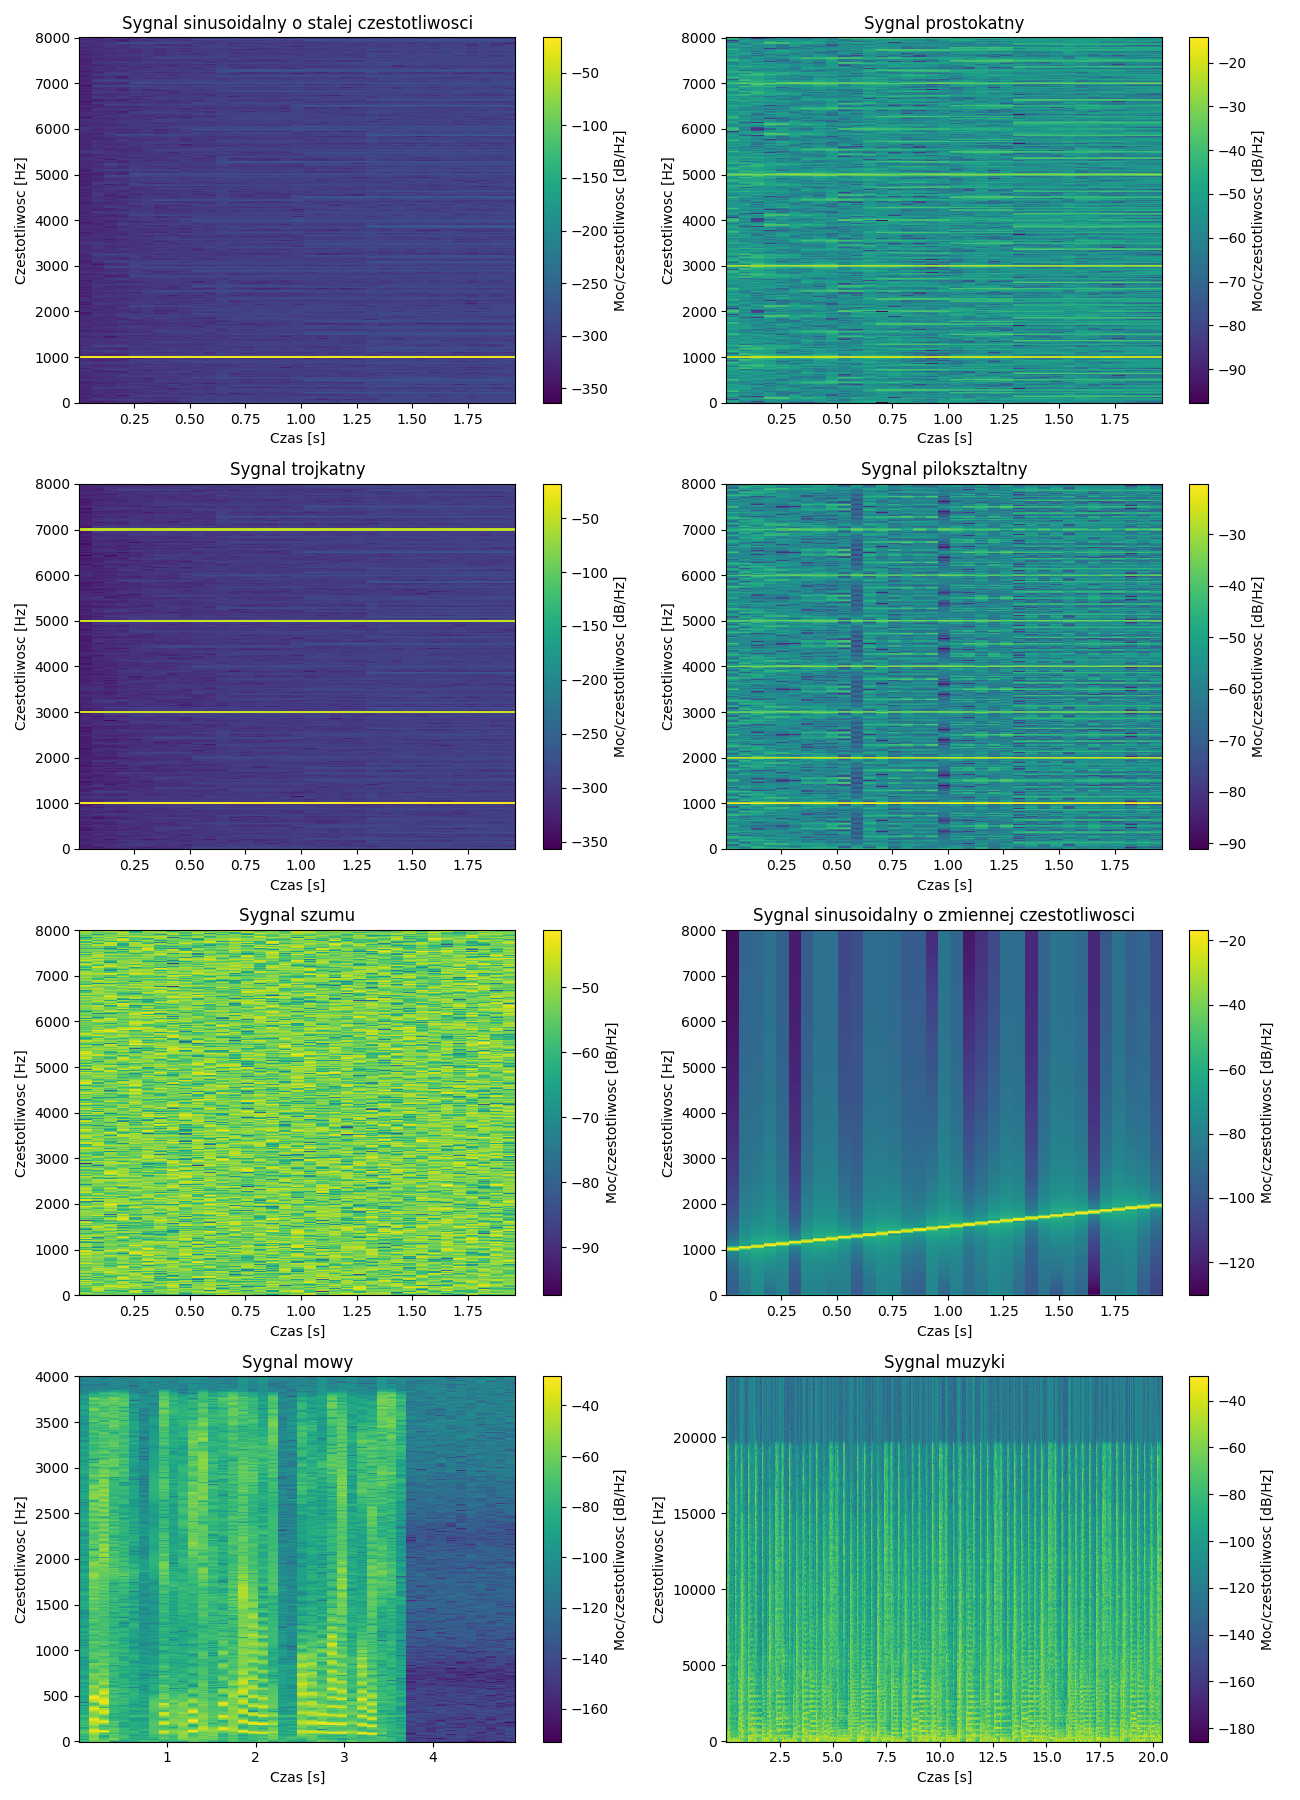
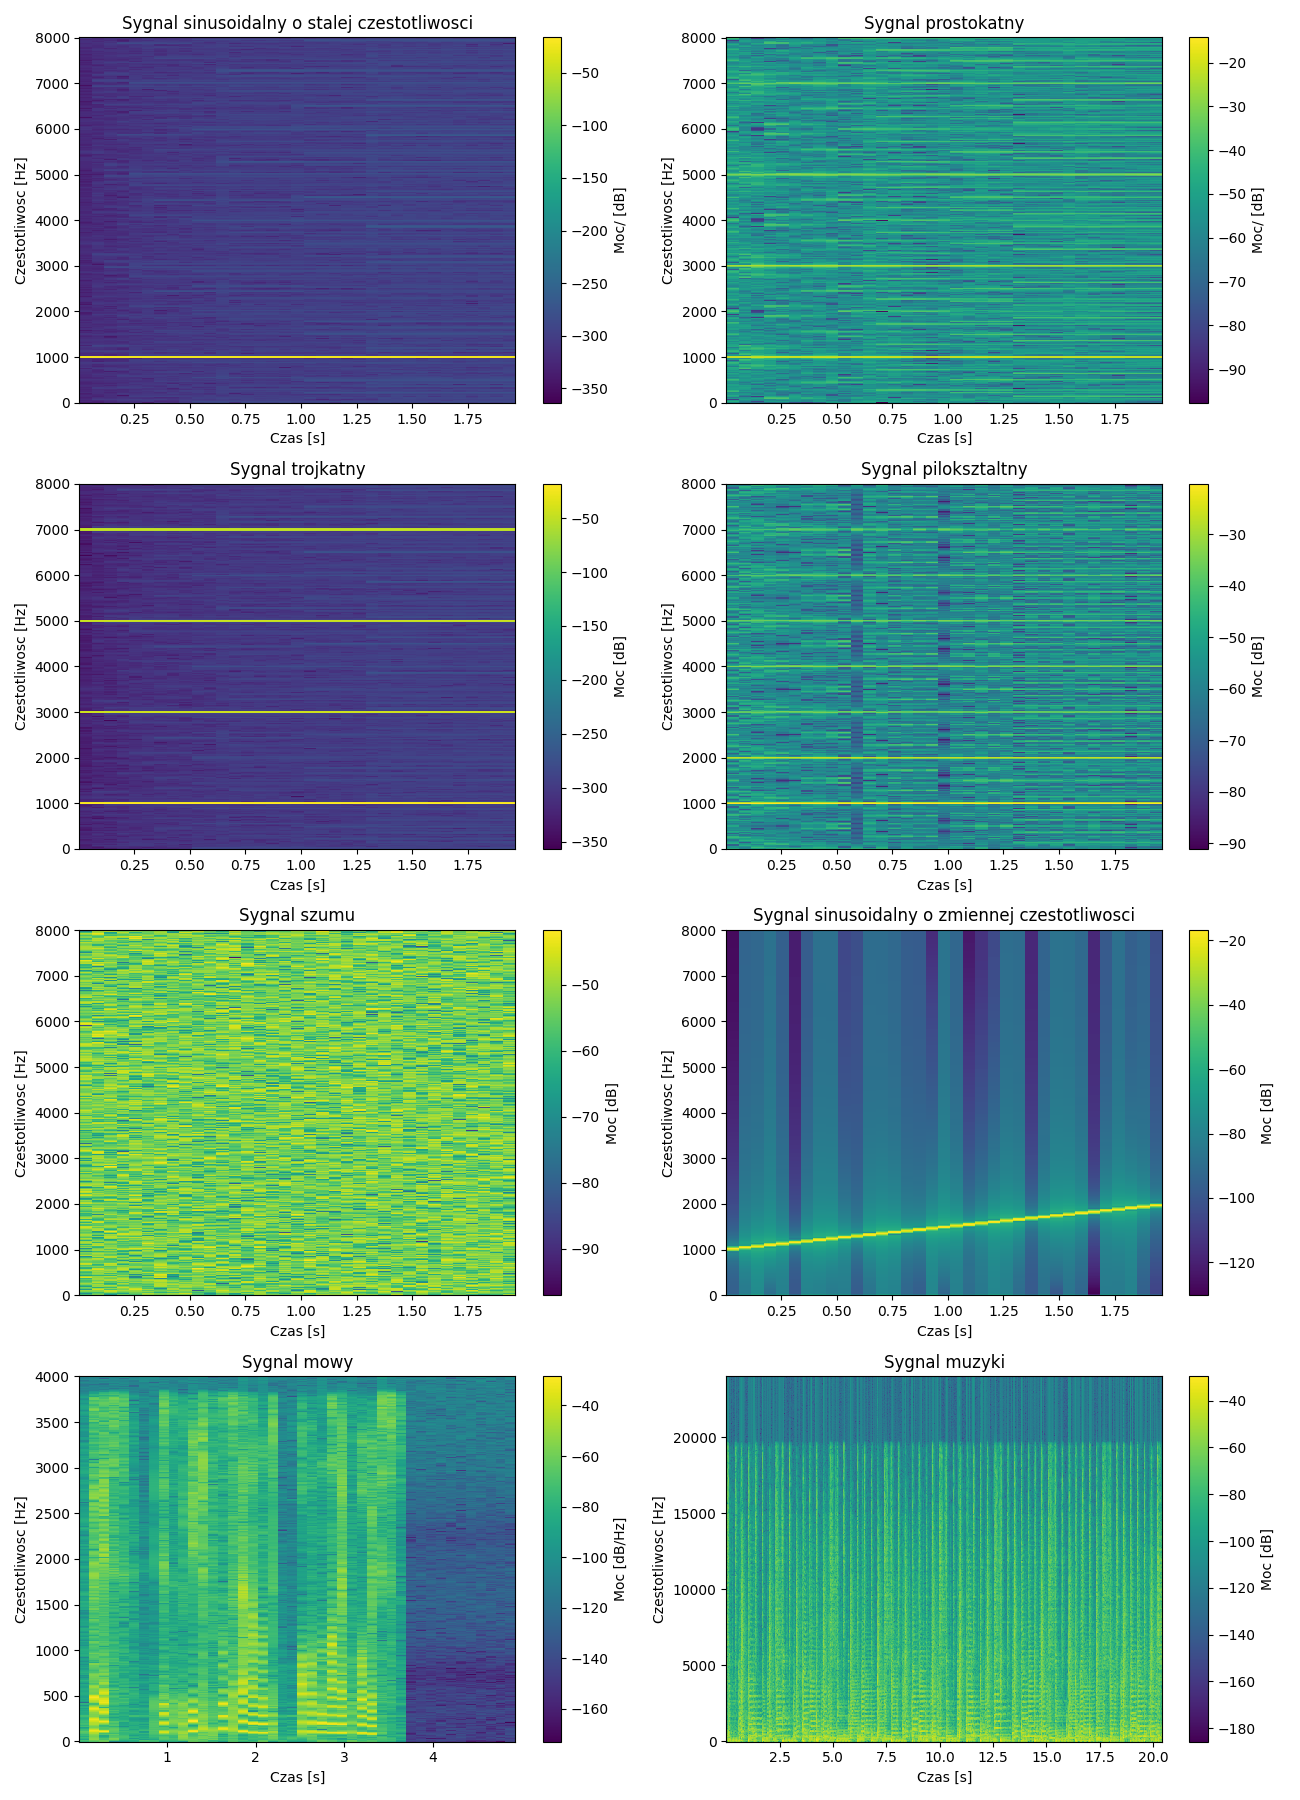
asd

diff --git a/psio/zajecia4/main.py b/psio/zajecia4/main.py
@@ -45,13 +45,13 @@ samples_power = moc_sygnalu(0.999, samples)
 fig, axs = plt.subplots(4, 2)
 fig.set_size_inches(18, 16)
 ax = axs[0,0]; ax.plot(n, noise); ax.set_title("Szum gaussowski"); ax.set_xlabel("Czas [s]"); ax.set_ylabel("Amplituda")
-ax = axs[0,1]; ax.plot(n, noise_power); ax.set_title("Szum gaussowski - Obwiednia mocy, alpha=0.999"); ax.set_xlabel("Czas [s]"); ax.set_ylabel("Moc")
+ax = axs[0,1]; ax.plot(n, noise_power); ax.set_title("Szum gaussowski - Obwiednia mocy, alpha=0.999"); ax.set_xlabel("Czas [s]"); ax.set_ylabel("Moc"); ax.set_ylim(0, 2)
 ax = axs[1,0]; ax.plot(n, sin); ax.set_title("Sygnal sinusoidalny o stalej czestotliwosci"); ax.set_xlabel("Czas [s]"); ax.set_ylabel("Amplituda")
-ax = axs[1,1]; ax.plot(n, sin_power); ax.set_title("Sygnal sinusoidalny o stalej czestotliwosci - Obwiednia mocy, alpha=0.999"); ax.set_xlabel("Czas [s]"); ax.set_ylabel("Moc")
+ax = axs[1,1]; ax.plot(n, sin_power); ax.set_title("Sygnal sinusoidalny o stalej czestotliwosci - Obwiednia mocy, alpha=0.999"); ax.set_xlabel("Czas [s]"); ax.set_ylabel("Moc"); ax.set_ylim(0, 1)
 ax = axs[2,0]; ax.plot(n, sin_zmienny); ax.set_title("Sygnal o zmiennej czestotliwosci"); ax.set_xlabel("Czas [s]"); ax.set_ylabel("Amplituda")
-ax = axs[2,1]; ax.plot(n, sin_zmienny_power); ax.set_title("Sygnal o zmiennej czestotliwosci - Obwiednia mocy, alpha=0.999"); ax.set_xlabel("Czas [s]"); ax.set_ylabel("Moc")
+ax = axs[2,1]; ax.plot(n, sin_zmienny_power); ax.set_title("Sygnal o zmiennej czestotliwosci - Obwiednia mocy, alpha=0.999"); ax.set_xlabel("Czas [s]"); ax.set_ylabel("Moc"); ax.set_ylim(0, 1)
 ax = axs[3,0]; ax.plot(n, samples); ax.set_title("Sygnal mowy"); ax.set_xlabel("Czas [s]"); ax.set_ylabel("Amplituda")
-ax = axs[3,1]; ax.plot(n, samples_power); ax.set_title("Sygnal mowy - Obwiednia mocy, alpha=0.999"); ax.set_xlabel("Czas [s]"); ax.set_ylabel("Moc")
+ax = axs[3,1]; ax.plot(n, samples_power); ax.set_title("Sygnal mowy - Obwiednia mocy, alpha=0.999"); ax.set_xlabel("Czas [s]"); ax.set_ylabel("Moc"); ax.set_ylim(0, 0.1)
 fig.set_tight_layout(tight=True)
 plt.savefig("Zadanie1_1.png")
 
@@ -64,13 +64,13 @@ samples_power = moc_sygnalu(0.99, samples)
 fig, axs = plt.subplots(4, 2)
 fig.set_size_inches(18, 16)
 ax = axs[0,0]; ax.plot(n, noise); ax.set_title("Szum gaussowski"); ax.set_xlabel("Czas [s]"); ax.set_ylabel("Amplituda")
-ax = axs[0,1]; ax.plot(n, noise_power); ax.set_title("Szum gaussowski - Obwiednia mocy, alpha=0.99"); ax.set_xlabel("Czas [s]"); ax.set_ylabel("Moc")
+ax = axs[0,1]; ax.plot(n, noise_power); ax.set_title("Szum gaussowski - Obwiednia mocy, alpha=0.99"); ax.set_xlabel("Czas [s]"); ax.set_ylabel("Moc"); ax.set_ylim(0, 2)
 ax = axs[1,0]; ax.plot(n, sin); ax.set_title("Sygnal sinusoidalny o stalej czestotliwosci"); ax.set_xlabel("Czas [s]"); ax.set_ylabel("Amplituda")
-ax = axs[1,1]; ax.plot(n, sin_power); ax.set_title("Sygnal sinusoidalny o stalej czestotliwosci - Obwiednia mocy, alpha=0.99"); ax.set_xlabel("Czas [s]"); ax.set_ylabel("Moc")
+ax = axs[1,1]; ax.plot(n, sin_power); ax.set_title("Sygnal sinusoidalny o stalej czestotliwosci - Obwiednia mocy, alpha=0.99"); ax.set_xlabel("Czas [s]"); ax.set_ylabel("Moc"); ax.set_ylim(0, 1)
 ax = axs[2,0]; ax.plot(n, sin_zmienny); ax.set_title("Sygnal o zmiennej czestotliwosci"); ax.set_xlabel("Czas [s]"); ax.set_ylabel("Amplituda")
-ax = axs[2,1]; ax.plot(n, sin_zmienny_power); ax.set_title("Sygnal o zmiennej czestotliwosci - Obwiednia mocy, alpha=0.99"); ax.set_xlabel("Czas [s]"); ax.set_ylabel("Moc")
+ax = axs[2,1]; ax.plot(n, sin_zmienny_power); ax.set_title("Sygnal o zmiennej czestotliwosci - Obwiednia mocy, alpha=0.99"); ax.set_xlabel("Czas [s]"); ax.set_ylabel("Moc"); ax.set_ylim(0, 1)
 ax = axs[3,0]; ax.plot(n, samples); ax.set_title("Sygnal mowy"); ax.set_xlabel("Czas [s]"); ax.set_ylabel("Amplituda")
-ax = axs[3,1]; ax.plot(n, samples_power); ax.set_title("Sygnal mowy - Obwiednia mocy, alpha=0.99"); ax.set_xlabel("Czas [s]"); ax.set_ylabel("Moc")
+ax = axs[3,1]; ax.plot(n, samples_power); ax.set_title("Sygnal mowy - Obwiednia mocy, alpha=0.99"); ax.set_xlabel("Czas [s]"); ax.set_ylabel("Moc"); ax.set_ylim(0, 0.2)
 fig.set_tight_layout(tight=True)
 plt.savefig("Zadanie1_2.png")
 
@@ -83,13 +83,13 @@ samples_power = moc_sygnalu(0.001, samples)
 fig, axs = plt.subplots(4, 2)
 fig.set_size_inches(18, 16)
 ax = axs[0,0]; ax.plot(n, noise); ax.set_title("Szum gaussowski"); ax.set_xlabel("Czas [s]"); ax.set_ylabel("Amplituda")
-ax = axs[0,1]; ax.plot(n, noise_power); ax.set_title("Szum gaussowski - Obwiednia mocy, alpha=0.001"); ax.set_xlabel("Czas [s]"); ax.set_ylabel("Moc")
+ax = axs[0,1]; ax.plot(n, noise_power); ax.set_title("Szum gaussowski - Obwiednia mocy, alpha=0.001"); ax.set_xlabel("Czas [s]"); ax.set_ylabel("Moc"); ax.set_ylim(0, 20)
 ax = axs[1,0]; ax.plot(n, sin); ax.set_title("Sygnal sinusoidalny o stalej czestotliwosci"); ax.set_xlabel("Czas [s]"); ax.set_ylabel("Amplituda")
-ax = axs[1,1]; ax.plot(n, sin_power); ax.set_title("Sygnal sinusoidalny o stalej czestotliwosci - Obwiednia mocy, alpha=0.001"); ax.set_xlabel("Czas [s]"); ax.set_ylabel("Moc")
+ax = axs[1,1]; ax.plot(n, sin_power); ax.set_title("Sygnal sinusoidalny o stalej czestotliwosci - Obwiednia mocy, alpha=0.001"); ax.set_xlabel("Czas [s]"); ax.set_ylabel("Moc"); ax.set_ylim(0, 1)
 ax = axs[2,0]; ax.plot(n, sin_zmienny); ax.set_title("Sygnal o zmiennej czestotliwosci"); ax.set_xlabel("Czas [s]"); ax.set_ylabel("Amplituda")
-ax = axs[2,1]; ax.plot(n, sin_zmienny_power); ax.set_title("Sygnal o zmiennej czestotliwosci - Obwiednia mocy, alpha=0.001"); ax.set_xlabel("Czas [s]"); ax.set_ylabel("Moc")
+ax = axs[2,1]; ax.plot(n, sin_zmienny_power); ax.set_title("Sygnal o zmiennej czestotliwosci - Obwiednia mocy, alpha=0.001"); ax.set_xlabel("Czas [s]"); ax.set_ylabel("Moc"); ax.set_ylim(0, 1)
 ax = axs[3,0]; ax.plot(n, samples); ax.set_title("Sygnal mowy"); ax.set_xlabel("Czas [s]"); ax.set_ylabel("Amplituda")
-ax = axs[3,1]; ax.plot(n, samples_power); ax.set_title("Sygnal mowy - Obwiednia mocy, alpha=0.001"); ax.set_xlabel("Czas [s]"); ax.set_ylabel("Moc")
+ax = axs[3,1]; ax.plot(n, samples_power); ax.set_title("Sygnal mowy - Obwiednia mocy, alpha=0.001"); ax.set_xlabel("Czas [s]"); ax.set_ylabel("Moc"); ax.set_ylim(0, 1)
 fig.set_tight_layout(tight=True)
 plt.savefig("Zadanie1_3.png")
 
@@ -160,30 +160,22 @@ muzyka_f, muzyka_pxx = periodogram(muzyka, fs_muzyki)
 fig, axs = plt.subplots(8,2)
 fig.set_size_inches(20, 18)
 ax = axs[0,0]; ax.plot(n, sin); ax.set_xlim(0, 0.02); ax.set_title('Sygnal sinusoidalny o stalej czestotliwosci'); ax.set_ylabel("Amplituda"); ax.set_xlabel("Czas [s]")
-ax = axs[0,1]; ax.plot(sin_f, 10*np.log10(np.abs(sin_pxx))); ax.set_title('Sygnal sinusoidalny o stalej czestotliwosci - periodogram'); ax.set_ylabel("Moc/czestotliwosc [dB/Hz]"); ax.set_xlabel("Czestotliwosc [Hz]")
-
+ax = axs[0,1]; ax.plot(sin_f, 10*np.log10(np.abs(sin_pxx))); ax.set_title('Sygnal sinusoidalny o stalej czestotliwosci - periodogram'); ax.set_ylabel("Moc [dB]"); ax.set_xlabel("Czestotliwosc [Hz]")
 ax = axs[1,0]; ax.plot(n, sq); ax.set_xlim(0, 0.02); ax.set_title('Sygnal prostokatny'); ax.set_ylabel("Amplituda"); ax.set_xlabel("Czas [s]")
-ax = axs[1,1]; ax.plot(sq_f, 10*np.log10(np.abs(sq_pxx))); ax.set_title('Sygnal prostokatny - periodogram'); ax.set_ylabel("Moc/czestotliwosc [dB/Hz]"); ax.set_xlabel("Czestotliwosc [Hz]")
-
+ax = axs[1,1]; ax.plot(sq_f, 10*np.log10(np.abs(sq_pxx))); ax.set_title('Sygnal prostokatny - periodogram'); ax.set_ylabel("Moc [dB]"); ax.set_xlabel("Czestotliwosc [Hz]")
 ax = axs[2,0]; ax.plot(n, traingle); ax.set_xlim(0, 0.02); ax.set_title('Sygnal trojkatny'); ax.set_ylabel("Amplituda"); ax.set_xlabel("Czas [s]")
-ax = axs[2,1]; ax.plot(traingle_f, 10*np.log10(np.abs(traingle_pxx))); ax.set_title('Sygnal trojkatny - periodogram'); ax.set_ylabel("Moc/czestotliwosc [dB/Hz]"); ax.set_xlabel("Czestotliwosc [Hz]")
-
+ax = axs[2,1]; ax.plot(traingle_f, 10*np.log10(np.abs(traingle_pxx))); ax.set_title('Sygnal trojkatny - periodogram'); ax.set_ylabel("Moc [dB]"); ax.set_xlabel("Czestotliwosc [Hz]")
 ax = axs[3,0]; ax.plot(n, saw); ax.set_xlim(0, 0.02); ax.set_title('Sygnal piloksztaltny'); ax.set_ylabel("Amplituda"); ax.set_xlabel("Czas [s]")
-ax = axs[3,1]; ax.plot(saw_f, 10*np.log10(np.abs(saw_pxx))); ax.set_title('Sygnal piloksztaltny - periodogram'); ax.set_ylabel("Moc/czestotliwosc [dB/Hz]"); ax.set_xlabel("Czestotliwosc [Hz]")
-
+ax = axs[3,1]; ax.plot(saw_f, 10*np.log10(np.abs(saw_pxx))); ax.set_title('Sygnal piloksztaltny - periodogram'); ax.set_ylabel("Moc [dB]"); ax.set_xlabel("Czestotliwosc [Hz]")
 ax = axs[4,0]; ax.plot(n, noise); ax.set_xlim(0, 0.02); ax.set_title('Sygnal szumu'); ax.set_ylabel("Amplituda"); ax.set_xlabel("Czas [s]")
-ax = axs[4,1]; ax.plot(noise_f, 10*np.log10(np.abs(noise_pxx))); ax.set_title('Sygnal szumu - periodogram'); ax.set_ylabel("Moc/czestotliwosc [dB/Hz]"); ax.set_xlabel("Czestotliwosc [Hz]")
-
+ax = axs[4,1]; ax.plot(noise_f, 10*np.log10(np.abs(noise_pxx))); ax.set_title('Sygnal szumu - periodogram'); ax.set_ylabel("Moc [dB]"); ax.set_xlabel("Czestotliwosc [Hz]")
 ax = axs[5,0]; ax.plot(n, sin_var); ax.set_xlim(0, 0.02); ax.set_title('Sygnal sinusoidalny o zmiennej czestotliwosci'); ax.set_ylabel("Amplituda"); ax.set_xlabel("Czas [s]")
-ax = axs[5,1]; ax.plot(sin_var_f, 10*np.log10(np.abs(sin_var_pxx))); ax.set_title('Sygnal sinusoidalny o zmiennej czestotliwosci - periodogram'); ax.set_ylabel("Moc/czestotliwosc [dB/Hz]"); ax.set_xlabel("Czestotliwosc [Hz]")
-
+ax = axs[5,1]; ax.plot(sin_var_f, 10*np.log10(np.abs(sin_var_pxx))); ax.set_title('Sygnal sinusoidalny o zmiennej czestotliwosci - periodogram'); ax.set_ylabel("Moc [dB]"); ax.set_xlabel("Czestotliwosc [Hz]")
 ax = axs[6,0]; ax.plot(n_mowy, mowa); ax.set_xlim(0.05, 3.7); ax.set_title('Sygnal mowy'); ax.set_ylabel("Amplituda"); ax.set_xlabel("Czas [s]")
-ax = axs[6,1]; ax.plot(mowa_f, 10*np.log10(np.abs(mowa_pxx))); ax.set_title('Sygnal mowy - periodogram'); ax.set_ylabel("Moc/czestotliwosc [dB/Hz]"); ax.set_xlabel("Czestotliwosc [Hz]")
-
+ax = axs[6,1]; ax.plot(mowa_f, 10*np.log10(np.abs(mowa_pxx))); ax.set_title('Sygnal mowy - periodogram'); ax.set_ylabel("Moc [dB]"); ax.set_xlabel("Czestotliwosc [Hz]")
 ax = axs[7,0]; ax.plot(n_muzyki, muzyka); ax.set_title('Sygnal muzyki'); ax.set_ylabel("Amplituda"); ax.set_xlabel("Czas [s]")
-ax = axs[7,1]; ax.plot(muzyka_f, 10*np.log10(np.abs(muzyka_pxx))); ax.set_title('Sygnal muzyki - periodogram'); ax.set_ylabel("Moc/czestotliwosc [dB/Hz]"); ax.set_xlabel("Czestotliwosc [Hz]")
+ax = axs[7,1]; ax.plot(muzyka_f, 10*np.log10(np.abs(muzyka_pxx))); ax.set_title('Sygnal muzyki - periodogram'); ax.set_ylabel("Moc [dB]"); ax.set_xlabel("Czestotliwosc [Hz]")
 fig.set_tight_layout(tight=True)
-
 plt.savefig("Zadanie2.png")
 
 
@@ -201,46 +193,6 @@ plt.savefig("Zadanie2.png")
 
 
 
-f = 1000
-fs = 16000
-t = 2
-n = np.arange(0, t, 1/fs)
-frequency = np.linspace(1000, 2000, len(n))
-
-sin = np.sin(2*np.pi * f * n)
-sq = square(2*np.pi * f * n)
-traingle = sawtooth(2*np.pi * f  * n, width=0.5)
-saw = sawtooth(2*np.pi * f * n)
-noise = np.random.normal(0, 1, fs * t)
-max_amplitude = np.max(np.abs(noise))
-noise = noise / max_amplitude
-sin_var = chirp(n, f0=1000, f1=2000, t1=2, method='linear')
-with wave.open("mowa.wav", 'r') as file:
-    n_frames = file.getnframes()
-    fs_mowy = file.getframerate()
-    t_mowy = n_frames/fs_mowy
-    n_mowy = np.arange(0, t_mowy, 1/fs_mowy)
-    data = file.readframes(n_frames)
-    mowa = struct.unpack(f"{n_frames}h", data)
-    max_amplitude = np.max(np.abs(mowa))
-    mowa = mowa / max_amplitude
-with wave.open("muzyka.wav", 'r') as file:
-    liczba_kanalow = file.getnchannels()
-    liczba_bitow_na_probke = file.getsampwidth()
-    n_frames = file.getnframes()
-
-    fs_muzyki = file.getframerate()
-    t_muzyki = n_frames / fs_muzyki
-    n_muzyki = np.arange(0, t_muzyki-(1/fs_muzyki), 1 / fs_muzyki)
-
-    data = file.readframes(n_frames)
-    muzyka = struct.unpack(f"{n_frames * liczba_kanalow}h", data)
-    muzyka = np.array(muzyka).reshape((-1, liczba_kanalow))
-    muzyka = np.sum(muzyka, axis=1)
-    max_amplitude = np.max(np.abs(muzyka))
-    muzyka = muzyka / max_amplitude
-
-
 sin_f, sin_t, sin_Sxx = spectrogram(sin, fs, window='hamming', nperseg=1024)
 sq_f, sq_t, sq_Sxx = spectrogram(sq, fs, window='hamming', nperseg=1024)
 traingle_f, traingle_t, traingle_Sxx = spectrogram(traingle, fs, window='hamming', nperseg=1024)
@@ -253,14 +205,14 @@ muzyka_f, muzyka_t, muzyka_Sxx = spectrogram(muzyka, fs_muzyki, window='hamming'
 
 fig, axs = plt.subplots(4, 2)
 fig.set_size_inches(13, 18)
-ax = axs[0,0]; mesh = ax.pcolormesh(sin_t, sin_f, 10*np.log10(sin_Sxx)); cb = fig.colorbar(mesh, ax=ax); cb.set_label("Moc/czestotliwosc [dB/Hz]"); ax.set_title('Sygnal sinusoidalny o stalej czestotliwosci'); ax.set_ylabel("Czestotliwosc [Hz]"); ax.set_xlabel("Czas [s]")
-ax = axs[0,1]; mesh = ax.pcolormesh(sq_t, sq_f, 10*np.log10(sq_Sxx)); cb = fig.colorbar(mesh, ax=ax); cb.set_label("Moc/czestotliwosc [dB/Hz]"); ax.set_title('Sygnal prostokatny'); ax.set_ylabel("Czestotliwosc [Hz]"); ax.set_xlabel("Czas [s]")
-ax = axs[1,0]; mesh = ax.pcolormesh(traingle_t, traingle_f, 10*np.log10(traingle_Sxx)); cb = fig.colorbar(mesh, ax=ax); cb.set_label("Moc/czestotliwosc [dB/Hz]"); ax.set_title('Sygnal trojkatny'); ax.set_ylabel("Czestotliwosc [Hz]"); ax.set_xlabel("Czas [s]")
-ax = axs[1,1]; mesh = ax.pcolormesh(saw_t, saw_f, 10*np.log10(saw_Sxx)); cb = fig.colorbar(mesh, ax=ax); cb.set_label("Moc/czestotliwosc [dB/Hz]"); ax.set_title('Sygnal piloksztaltny'); ax.set_ylabel("Czestotliwosc [Hz]"); ax.set_xlabel("Czas [s]")
-ax = axs[2,0]; mesh = ax.pcolormesh(noise_t, noise_f, 10*np.log10(noise_Sxx)); cb = fig.colorbar(mesh, ax=ax); cb.set_label("Moc/czestotliwosc [dB/Hz]");  ax.set_title('Sygnal szumu'); ax.set_ylabel("Czestotliwosc [Hz]"); ax.set_xlabel("Czas [s]")
-ax = axs[2,1]; mesh = ax.pcolormesh(sin_var_t, sin_var_f, 10*np.log10(sin_var_Sxx)); cb = fig.colorbar(mesh, ax=ax); cb.set_label("Moc/czestotliwosc [dB/Hz]"); ax.set_title('Sygnal sinusoidalny o zmiennej czestotliwosci'); ax.set_ylabel("Czestotliwosc [Hz]"); ax.set_xlabel("Czas [s]")
-ax = axs[3,0]; mesh = ax.pcolormesh(mowa_t, mowa_f, 10*np.log10(mowa_Sxx)); cb = fig.colorbar(mesh, ax=ax); cb.set_label("Moc/czestotliwosc [dB/Hz]");  ax.set_title('Sygnal mowy'); ax.set_ylabel("Czestotliwosc [Hz]"); ax.set_xlabel("Czas [s]")
-ax = axs[3,1]; mesh = ax.pcolormesh(muzyka_t, muzyka_f, 10*np.log10(muzyka_Sxx)); cb = fig.colorbar(mesh, ax=ax); cb.set_label("Moc/czestotliwosc [dB/Hz]");  ax.set_title('Sygnal muzyki'); ax.set_ylabel("Czestotliwosc [Hz]"); ax.set_xlabel("Czas [s]")
+ax = axs[0,0]; mesh = ax.pcolormesh(sin_t, sin_f, 10*np.log10(sin_Sxx)); cb = fig.colorbar(mesh, ax=ax); cb.set_label("Moc/ [dB]"); ax.set_title('Sygnal sinusoidalny o stalej czestotliwosci'); ax.set_ylabel("Czestotliwosc [Hz]"); ax.set_xlabel("Czas [s]")
+ax = axs[0,1]; mesh = ax.pcolormesh(sq_t, sq_f, 10*np.log10(sq_Sxx)); cb = fig.colorbar(mesh, ax=ax); cb.set_label("Moc/ [dB]"); ax.set_title('Sygnal prostokatny'); ax.set_ylabel("Czestotliwosc [Hz]"); ax.set_xlabel("Czas [s]")
+ax = axs[1,0]; mesh = ax.pcolormesh(traingle_t, traingle_f, 10*np.log10(traingle_Sxx)); cb = fig.colorbar(mesh, ax=ax); cb.set_label("Moc [dB]"); ax.set_title('Sygnal trojkatny'); ax.set_ylabel("Czestotliwosc [Hz]"); ax.set_xlabel("Czas [s]")
+ax = axs[1,1]; mesh = ax.pcolormesh(saw_t, saw_f, 10*np.log10(saw_Sxx)); cb = fig.colorbar(mesh, ax=ax); cb.set_label("Moc [dB]"); ax.set_title('Sygnal piloksztaltny'); ax.set_ylabel("Czestotliwosc [Hz]"); ax.set_xlabel("Czas [s]")
+ax = axs[2,0]; mesh = ax.pcolormesh(noise_t, noise_f, 10*np.log10(noise_Sxx)); cb = fig.colorbar(mesh, ax=ax); cb.set_label("Moc [dB]");  ax.set_title('Sygnal szumu'); ax.set_ylabel("Czestotliwosc [Hz]"); ax.set_xlabel("Czas [s]")
+ax = axs[2,1]; mesh = ax.pcolormesh(sin_var_t, sin_var_f, 10*np.log10(sin_var_Sxx)); cb = fig.colorbar(mesh, ax=ax); cb.set_label("Moc [dB]"); ax.set_title('Sygnal sinusoidalny o zmiennej czestotliwosci'); ax.set_ylabel("Czestotliwosc [Hz]"); ax.set_xlabel("Czas [s]")
+ax = axs[3,0]; mesh = ax.pcolormesh(mowa_t, mowa_f, 10*np.log10(mowa_Sxx)); cb = fig.colorbar(mesh, ax=ax); cb.set_label("Moc [dB/Hz]");  ax.set_title('Sygnal mowy'); ax.set_ylabel("Czestotliwosc [Hz]"); ax.set_xlabel("Czas [s]")
+ax = axs[3,1]; mesh = ax.pcolormesh(muzyka_t, muzyka_f, 10*np.log10(muzyka_Sxx)); cb = fig.colorbar(mesh, ax=ax); cb.set_label("Moc [dB]");  ax.set_title('Sygnal muzyki'); ax.set_ylabel("Czestotliwosc [Hz]"); ax.set_xlabel("Czas [s]")
 fig.set_tight_layout(tight=True)
 plt.savefig("Zadanie3.png")
 
@@ -278,44 +230,7 @@ plt.savefig("Zadanie3.png")
 
 
 
-f = 1000
-fs = 16000
-t = 2
-n = np.arange(0, t, 1/fs)
-frequency = np.linspace(1000, 2000, len(n))
 
-sin = np.sin(2*np.pi * f * n)
-sq = square(2*np.pi * f * n)
-traingle = sawtooth(2*np.pi * f  * n, width=0.5)
-saw = sawtooth(2*np.pi * f * n)
-noise = np.random.normal(0, 1, fs * t)
-max_amplitude = np.max(np.abs(noise))
-noise = noise / max_amplitude
-sin_var = chirp(n, f0=1000, f1=2000, t1=2, method='linear')
-with wave.open("mowa.wav", 'r') as file:
-    n_frames = file.getnframes()
-    fs_mowy = file.getframerate()
-    t_mowy = n_frames/fs_mowy
-    n_mowy = np.arange(0, t_mowy, 1/fs_mowy)
-    data = file.readframes(n_frames)
-    mowa = struct.unpack(f"{n_frames}h", data)
-    max_amplitude = np.max(np.abs(mowa))
-    mowa = mowa / max_amplitude
-with wave.open("muzyka.wav", 'r') as file:
-    liczba_kanalow = file.getnchannels()
-    liczba_bitow_na_probke = file.getsampwidth()
-    n_frames = file.getnframes()
-
-    fs_muzyki = file.getframerate()
-    t_muzyki = n_frames / fs_muzyki
-    n_muzyki = np.arange(0, t_muzyki-(1/fs_muzyki), 1 / fs_muzyki)
-
-    data = file.readframes(n_frames)
-    muzyka = struct.unpack(f"{n_frames * liczba_kanalow}h", data)
-    muzyka = np.array(muzyka).reshape((-1, liczba_kanalow))
-    muzyka = np.sum(muzyka, axis=1)
-    max_amplitude = np.max(np.abs(muzyka))
-    muzyka = muzyka / max_amplitude
 
 
 sin_mel = melspectrogram(y=sin, sr=fs)
